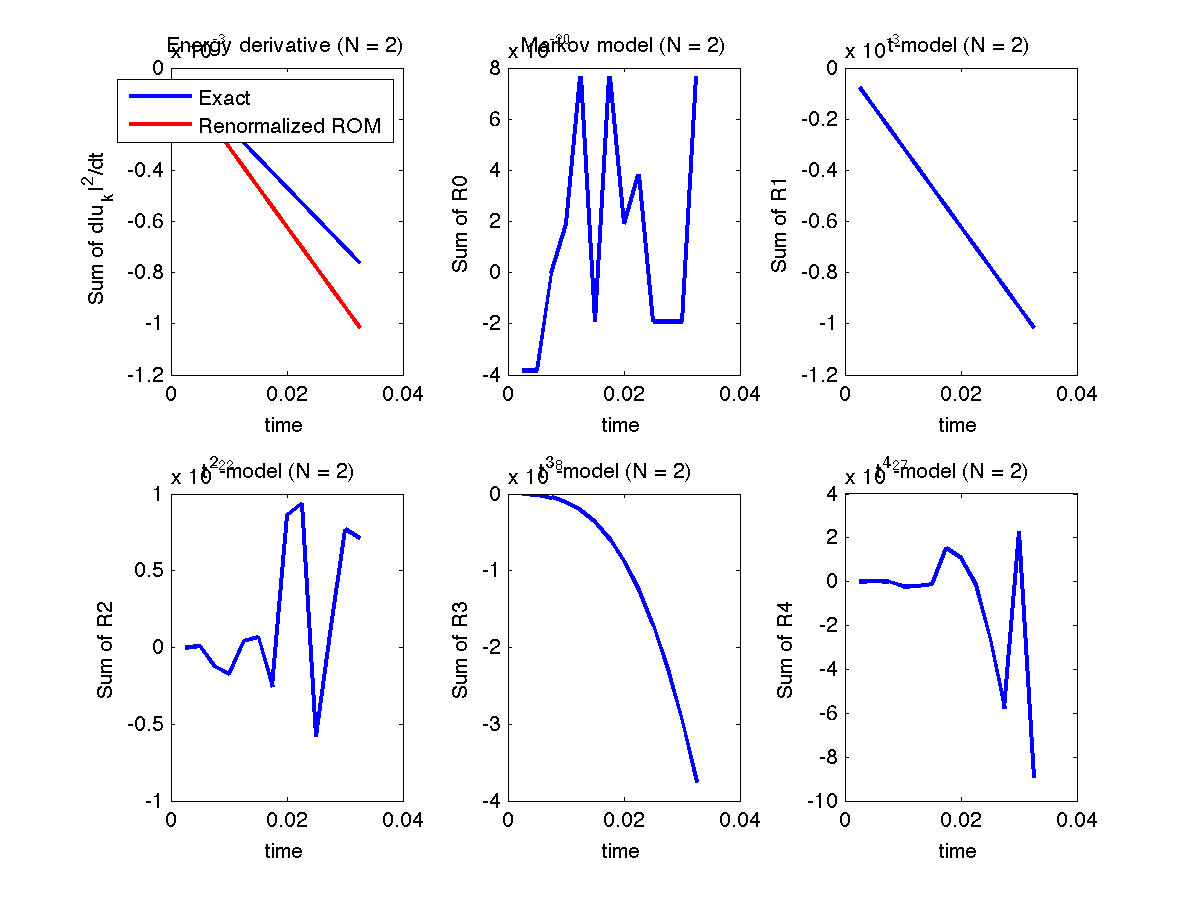
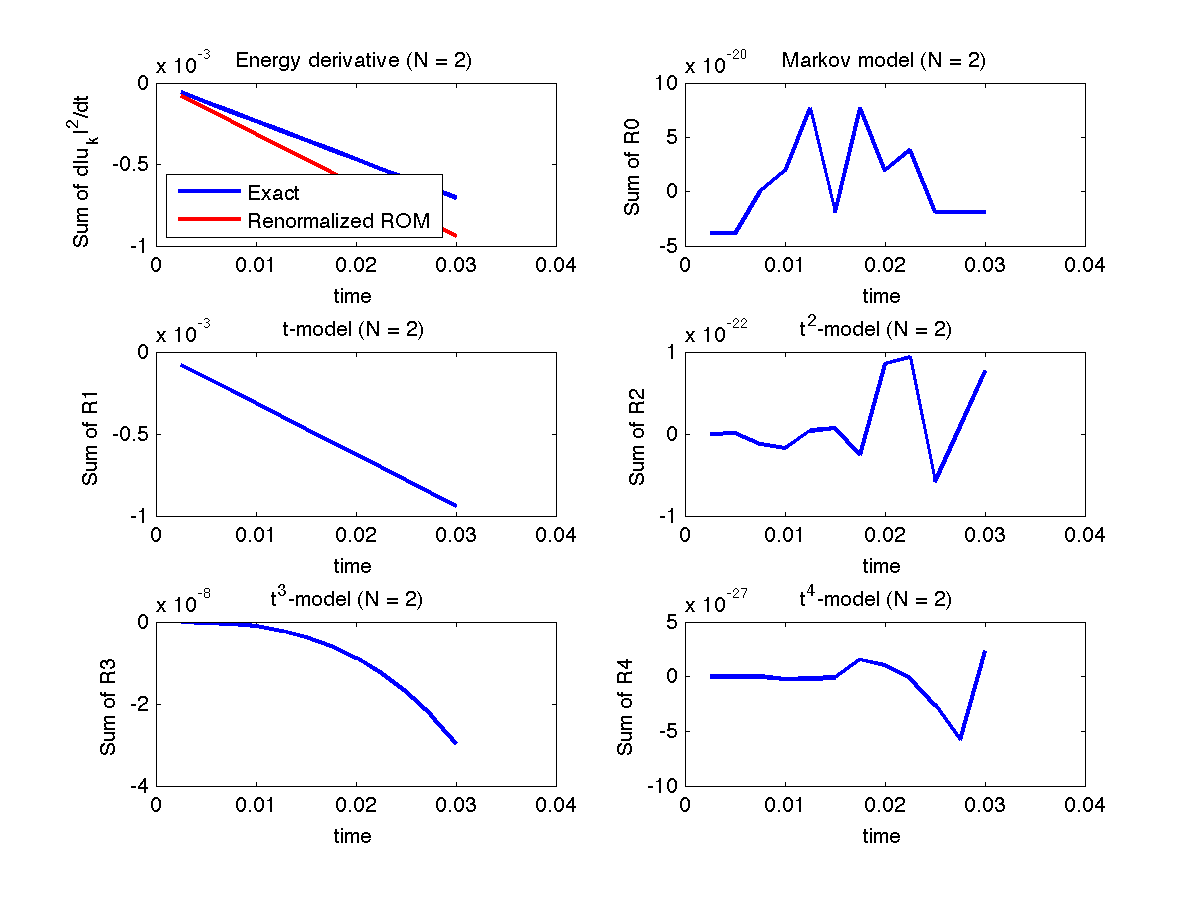
added resources to renormalize on separate windows and added N = 32 data

diff --git a/Euler/simulations/testing_renormalization_Mar_1/renormalize_new.m b/Euler/simulations/testing_renormalization_Mar_1/renormalize_new.m
@@ -1,7 +1,7 @@
-function [coeff_array,scaling_laws] = renormalize(u,N_list,t_list,time,print)
+function [coeff_array,scaling_laws] = renormalize_new(u,N_list,t_list,time,print,min_tol,max_tol)
 %
 % A function to take a fully resolved u to compute optimal renormalization
-% coefficients for several ROMs
+% coefficients for several ROMs using windows unique to each ROM resolution
 %
 %%%%%%%%%
 %INPUTS:%
@@ -19,6 +19,12 @@ function [coeff_array,scaling_laws] = renormalize(u,N_list,t_list,time,print)
 %
 %   print  =  a logical variable (1 if figures are to be printed and saved,
 %             0 otherwise)
+%
+%  min_tol  =  minimum energy flow out of t-model for each ROM (typically
+%              0)
+%
+%  max_tol  =  maximum energy flow out of t-model for each ROM to use in
+%              fit (typically 1e-16)
 %
 %
 %%%%%%%%%%
@@ -58,7 +64,6 @@ for i = 1:t
     
     % compute and display the current time
     disp('Currently analyzing exact solution')
-    current_t = t_list(i);
     disp(sprintf('Current time is t = %i out of %i\n',t_list(i),t_list(end)))
     
     % extract the current u
@@ -108,15 +113,13 @@ for j = 1:length(N_list);
     a = 2:M;
     b = 2*M:-1:M+2;
     a_tilde = N+1:M;
+    index = [];
     
     % loop through every timestep
     for i = 1:t
         disp(sprintf('Current resolution is N = %i',N))
         current_t = t_list(i);
         disp(sprintf('Current time is t = %i out of %i\n',current_t,t_list(end)))
-        % find the exact derivative for the terms in this ROM
-        exact_full = u_fullify(squeeze(exact_everything(:,:,:,:,:,i)),M_full);
-        exact(:,:,:,:,i) = exact_full(res_exact,res_exact,res_exact,:);
         
         % extract u and convert it into a full array with the proper
         % elements eliminated
@@ -127,12 +130,6 @@ for j = 1:length(N_list);
         
         % compute the R_k^i terms for i = 1,2,3,4
         [~,t0hat,t0tilde] = markov_term(u_full,a,b,k,a_tilde);
-        t0 = u_squishify(t0hat,N);
-        % compute the energy derivative due to the R_0 term
-        t0_energy = t0.*conj(u_current) + conj(t0).*u_current;
-        t0_energy = u_fullify(t0_energy,M_full);
-        R0(:,:,:,:,i) = t0_energy(res_exact,res_exact,res_exact,:);
-        
         [~,t1hat,t1tilde] = tmodel_term(u_full,t0tilde,a,b,k,a_tilde);
         t1 = u_squishify(t1hat,N);
         if time
@@ -141,46 +138,73 @@ for j = 1:length(N_list);
         % compute the energy derivative due to the R_1 term
         t1_energy = t1.*conj(u_current) + conj(t1).*u_current;
         t1_energy = u_fullify(t1_energy,M_full);
-        R1(:,:,:,:,i) = t1_energy(res_exact,res_exact,res_exact,:);
         
-        [t2,Ahat,Atilde,Bhat,Btilde] = t2model_term(u_full,t0hat,t0tilde,t1tilde,a,b,k,a_tilde);
-        t2 = u_squishify(t2,N);
-        if time
-            t2 = t2*current_t^2;
-        end
-        % compute the energy derivative due to the R_2 term
-        t2_energy = t2.*conj(u_current) + conj(t2).*u_current;
-        t2_energy = u_fullify(t2_energy,M_full);
-        R2(:,:,:,:,i) = t2_energy(res_exact,res_exact,res_exact,:);
+        % determine whether to use this mode in our fits
+        current_t_deriv = abs(sum(t1_energy(:)))
         
-        [t3,Ehat,Etilde,Fhat,Ftilde] = t3model_term(u_full,t0hat,t0tilde,t1hat,t1tilde,Ahat,Atilde,Btilde,a,b,k,a_tilde);
-        t3 = u_squishify(t3,N);
-        if time
-            t3 = t3*current_t^3;
+        if current_t_deriv>min_tol && current_t_deriv<max_tol
+            
+            % save the indices we are using
+            index = [index;i];
+            
+            % find the exact derivative for the terms in this ROM
+            exact_full = u_fullify(squeeze(exact_everything(:,:,:,:,:,i)),M_full);
+            exact(:,:,:,:,i) = exact_full(res_exact,res_exact,res_exact,:);
+            
+            % compute the energy derivative due to the R_0 and R_1 terms
+            t0 = u_squishify(t0hat,N);
+            t0_energy = t0.*conj(u_current) + conj(t0).*u_current;
+            t0_energy = u_fullify(t0_energy,M_full);
+            
+            R0(:,:,:,:,i) = t0_energy(res_exact,res_exact,res_exact,:);
+            R1(:,:,:,:,i) = t1_energy(res_exact,res_exact,res_exact,:);
+            
+            [t2,Ahat,Atilde,Bhat,Btilde] = t2model_term(u_full,t0hat,t0tilde,t1tilde,a,b,k,a_tilde);
+            t2 = u_squishify(t2,N);
+            if time
+                t2 = t2*current_t^2;
+            end
+            % compute the energy derivative due to the R_2 term
+            t2_energy = t2.*conj(u_current) + conj(t2).*u_current;
+            t2_energy = u_fullify(t2_energy,M_full);
+            R2(:,:,:,:,i) = t2_energy(res_exact,res_exact,res_exact,:);
+            
+            [t3,Ehat,Etilde,Fhat,Ftilde] = t3model_term(u_full,t0hat,t0tilde,t1hat,t1tilde,Ahat,Atilde,Btilde,a,b,k,a_tilde);
+            t3 = u_squishify(t3,N);
+            if time
+                t3 = t3*current_t^3;
+            end
+            % compute the energy derivative due to the R_3 term
+            t3_energy = t3.*conj(u_current) + conj(t3).*u_current;
+            t3_energy = u_fullify(t3_energy,M_full);
+            R3(:,:,:,:,i) = t3_energy(res_exact,res_exact,res_exact,:);
+            
+            t4 = t4model_term(u_full,t0hat,t0tilde,t1hat,t1tilde,Ahat,Atilde,Bhat,Btilde,Ehat,Etilde,Fhat,Ftilde,a,b,k,a_tilde);
+            t4 = u_squishify(t4,N);
+            if time
+                t4 = t4*current_t^4;
+            end
+            % compute the energy derivative due to the R_4 term
+            t4_energy = t4.*conj(u_current) + conj(t4).*u_current;
+            t4_energy = u_fullify(t4_energy,M_full);
+            R4(:,:,:,:,i) = t4_energy(res_exact,res_exact,res_exact,:);
         end
-        % compute the energy derivative due to the R_3 term
-        t3_energy = t3.*conj(u_current) + conj(t3).*u_current;
-        t3_energy = u_fullify(t3_energy,M_full);
-        R3(:,:,:,:,i) = t3_energy(res_exact,res_exact,res_exact,:);
-        
-        t4 = t4model_term(u_full,t0hat,t0tilde,t1hat,t1tilde,Ahat,Atilde,Bhat,Btilde,Ehat,Etilde,Fhat,Ftilde,a,b,k,a_tilde);
-        t4 = u_squishify(t4,N);
-        if time
-            t4 = t4*current_t^4;
-        end
-        % compute the energy derivative due to the R_4 term
-        t4_energy = t4.*conj(u_current) + conj(t4).*u_current;
-        t4_energy = u_fullify(t4_energy,M_full);
-        R4(:,:,:,:,i) = t4_energy(res_exact,res_exact,res_exact,:);
         
     end
+    
+    exact = exact(:,:,:,:,index);
+    R0 = R0(:,:,:,:,index);
+    R1 = R1(:,:,:,:,index);
+    R2 = R2(:,:,:,:,index);
+    R3 = R3(:,:,:,:,index);
+    R4 = R4(:,:,:,:,index);
     
     % compute the RHS for the least squares solve
     RHS = R0 - exact;
     b = -[sum(RHS(:).*R1(:))
-          sum(RHS(:).*R2(:))
-          sum(RHS(:).*R3(:))
-          sum(RHS(:).*R4(:))];
+        sum(RHS(:).*R2(:))
+        sum(RHS(:).*R3(:))
+        sum(RHS(:).*R4(:))];
     
     % construct the matrix for the least squares solve
     A11 = sum(R1(:).*R1(:));
@@ -218,9 +242,9 @@ for j = 1:length(N_list);
         % compare it to the rate of flow due to the renormalized ROM
         figure
         subplot(3,2,1)
-        plot(t_list,squeeze(sum(sum(sum(sum(exact,1),2),3),4)),'linewidth',2)
+        plot(t_list(index),squeeze(sum(sum(sum(sum(exact,1),2),3),4)),'linewidth',2)
         hold on
-        plot(t_list,squeeze(sum(sum(sum(sum(R0+coeff_array(1,j)*R1+coeff_array(2,j)*R2+coeff_array(3,j)*R3+coeff_array(4,j)*R4,1),2),3),4)),'r','linewidth',2)
+        plot(t_list(index),squeeze(sum(sum(sum(sum(R0+coeff_array(1,j)*R1+coeff_array(2,j)*R2+coeff_array(3,j)*R3+coeff_array(4,j)*R4,1),2),3),4)),'r','linewidth',2)
         title(sprintf('Energy derivative (N = %i)',N))
         xlabel('time')
         ylabel('Sum of d|u_k|^2/dt')
@@ -228,35 +252,35 @@ for j = 1:length(N_list);
         
         % display the rate of flow due to the Markov term
         subplot(3,2,2)
-        plot(t_list,squeeze(sum(sum(sum(sum(R0,1),2),3),4)),'linewidth',2)
+        plot(t_list(index),squeeze(sum(sum(sum(sum(R0,1),2),3),4)),'linewidth',2)
         title(sprintf('Markov model (N = %i)',N))
         xlabel('time')
         ylabel('Sum of R0')
         
         % display the rate of flow due to the t-model term
         subplot(3,2,3)
-        plot(t_list,squeeze(sum(sum(sum(sum(R1,1),2),3),4)),'linewidth',2)
+        plot(t_list(index),squeeze(sum(sum(sum(sum(R1,1),2),3),4)),'linewidth',2)
         title(sprintf('t-model (N = %i)',N))
         xlabel('time')
         ylabel('Sum of R1')
         
         % display the rate of flow due to the t^2-model term
         subplot(3,2,4)
-        plot(t_list,squeeze(sum(sum(sum(sum(R2,1),2),3),4)),'linewidth',2)
+        plot(t_list(index),squeeze(sum(sum(sum(sum(R2,1),2),3),4)),'linewidth',2)
         title(sprintf('t^2-model (N = %i)',N))
         xlabel('time')
         ylabel('Sum of R2')
         
         % display the rate of flow due to the t^3-model term
         subplot(3,2,5)
-        plot(t_list,squeeze(sum(sum(sum(sum(R3,1),2),3),4)),'linewidth',2)
+        plot(t_list(index),squeeze(sum(sum(sum(sum(R3,1),2),3),4)),'linewidth',2)
         title(sprintf('t^3-model (N = %i)',N))
         xlabel('time')
         ylabel('Sum of R3')
         
         % display the rate of flow due to the t^4-model term
         subplot(3,2,6)
-        plot(t_list,squeeze(sum(sum(sum(sum(R4,1),2),3),4)),'linewidth',2)
+        plot(t_list(index),squeeze(sum(sum(sum(sum(R4,1),2),3),4)),'linewidth',2)
         title(sprintf('t^4-model (N = %i)',N))
         xlabel('time')
         ylabel('Sum of R4')

diff --git a/Euler/simulations/testing_renormalization_Mar_1/analyze_data_new.m b/Euler/simulations/testing_renormalization_Mar_1/analyze_data_new.m
@@ -1,0 +1,50 @@
+function [coeff_array,scaling_laws] = analyze_data_new(N,min_tol,max_tol,time,print)
+%
+% A function to compute renormalization coefficients from a full simulation
+% of size N using data where the flow out of the full model is between
+% min_tol and max_tol using a least-squares fit
+%
+%
+%%%%%%%%%
+%INPUTS:%
+%%%%%%%%%
+%
+%        N  =  resolution of full model  
+%
+%  min_tol  =  minimum energy flow out of t-model of full model (typically
+%              0)
+%
+%  max_tol  =  maximum energy flow out of t-model of full model to use in
+%              fit (typically 1e-16)
+%
+%     time  =  a logical variable (if 1, include time dependence, if 0 do
+%              not include time dependence)
+%
+%    print  =  a logical variable (if 1, save plots, if 0 do not)
+%
+%
+%%%%%%%%%
+%OUTPUS:%
+%%%%%%%%%
+%
+%   coeff_array  =  4 x (N - 2)/2 array of computed renormalization
+%                   coefficients
+%
+%  scaling_laws  =  4 x 2 array of coefficients for fit scaling laws
+
+% load relevant folders into the path
+addpath ../../simulation_functions
+addpath ../../nonlinear
+addpath ../../analysis
+
+% load data
+load(sprintf('t%i.mat',N))
+load(sprintf('u%i.mat',N))
+
+% compute the coefficients for all even modes smaller than the full
+% simulation (except N = 2)
+s = size(u);
+N_list = 4:2:s(1)/2;
+
+% compute the renormalization coefficients
+[coeff_array,scaling_laws] = renormalize_new(u,N_list,t,time,print,min_tol,max_tol);
